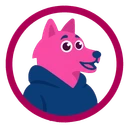
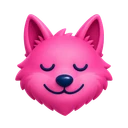
fix(modi): C-Grid als 3x3 mit echtem 3D-Wolf-Kopf (pink.png) auf Navy
Wolfs Wunsch: 3D-Wolf statt flacher Logo-Pose, kleineres 3x3-C statt 4x4.

diff --git a/src/components/ModeEmblems.tsx b/src/components/ModeEmblems.tsx
@@ -53,12 +53,11 @@ export function ArenaEmblem({ size = 84 }: { size?: number }) {
 // 1 = erobert (Wolf drin), 0 = frei. Ein Feld "landet" gerade (Pop-Animation).
 // Das "C" fuer Cozy, gebaut aus dem Erober-Grid -> Modus + Marke in einem Bild.
 const C_GRID = [
-  1, 1, 1, 1,
-  1, 0, 0, 0,
-  1, 0, 0, 0,
-  1, 1, 1, 1,
+  1, 1, 1,
+  1, 0, 0,
+  1, 1, 1,
 ];
-const LAND_CELL = 3; // dieses Feld poppt gerade rein (oben rechts, Ende der C-Spitze)
+const LAND_CELL = 2; // dieses Feld poppt gerade rein (oben rechts, Spitze des C)
 // Felder im Hoodie-Blau des Wolfs (aus dem Avatar gesampelt): der pinke Wolf
 // hebt sich klar ab, statt auf Pink zu verschwimmen. Navy ist zudem Markenfarbe.
 const CELL_HI = '#2a5199';
@@ -68,8 +67,8 @@ export function GridEmblem({ size = 84 }: { size?: number }) {
   return (
     <div aria-hidden style={{
       width: size, height: size,
-      display: 'grid', gridTemplateColumns: 'repeat(4, 1fr)', gridTemplateRows: 'repeat(4, 1fr)',
-      gap: size * 0.055,
+      display: 'grid', gridTemplateColumns: 'repeat(3, 1fr)', gridTemplateRows: 'repeat(3, 1fr)',
+      gap: size * 0.07,
     }}>
       {C_GRID.map((t, i) => {
         if (t === 0) return <div key={i} style={{ borderRadius: size * 0.07, background: 'rgba(255,255,255,0.05)' }} />;